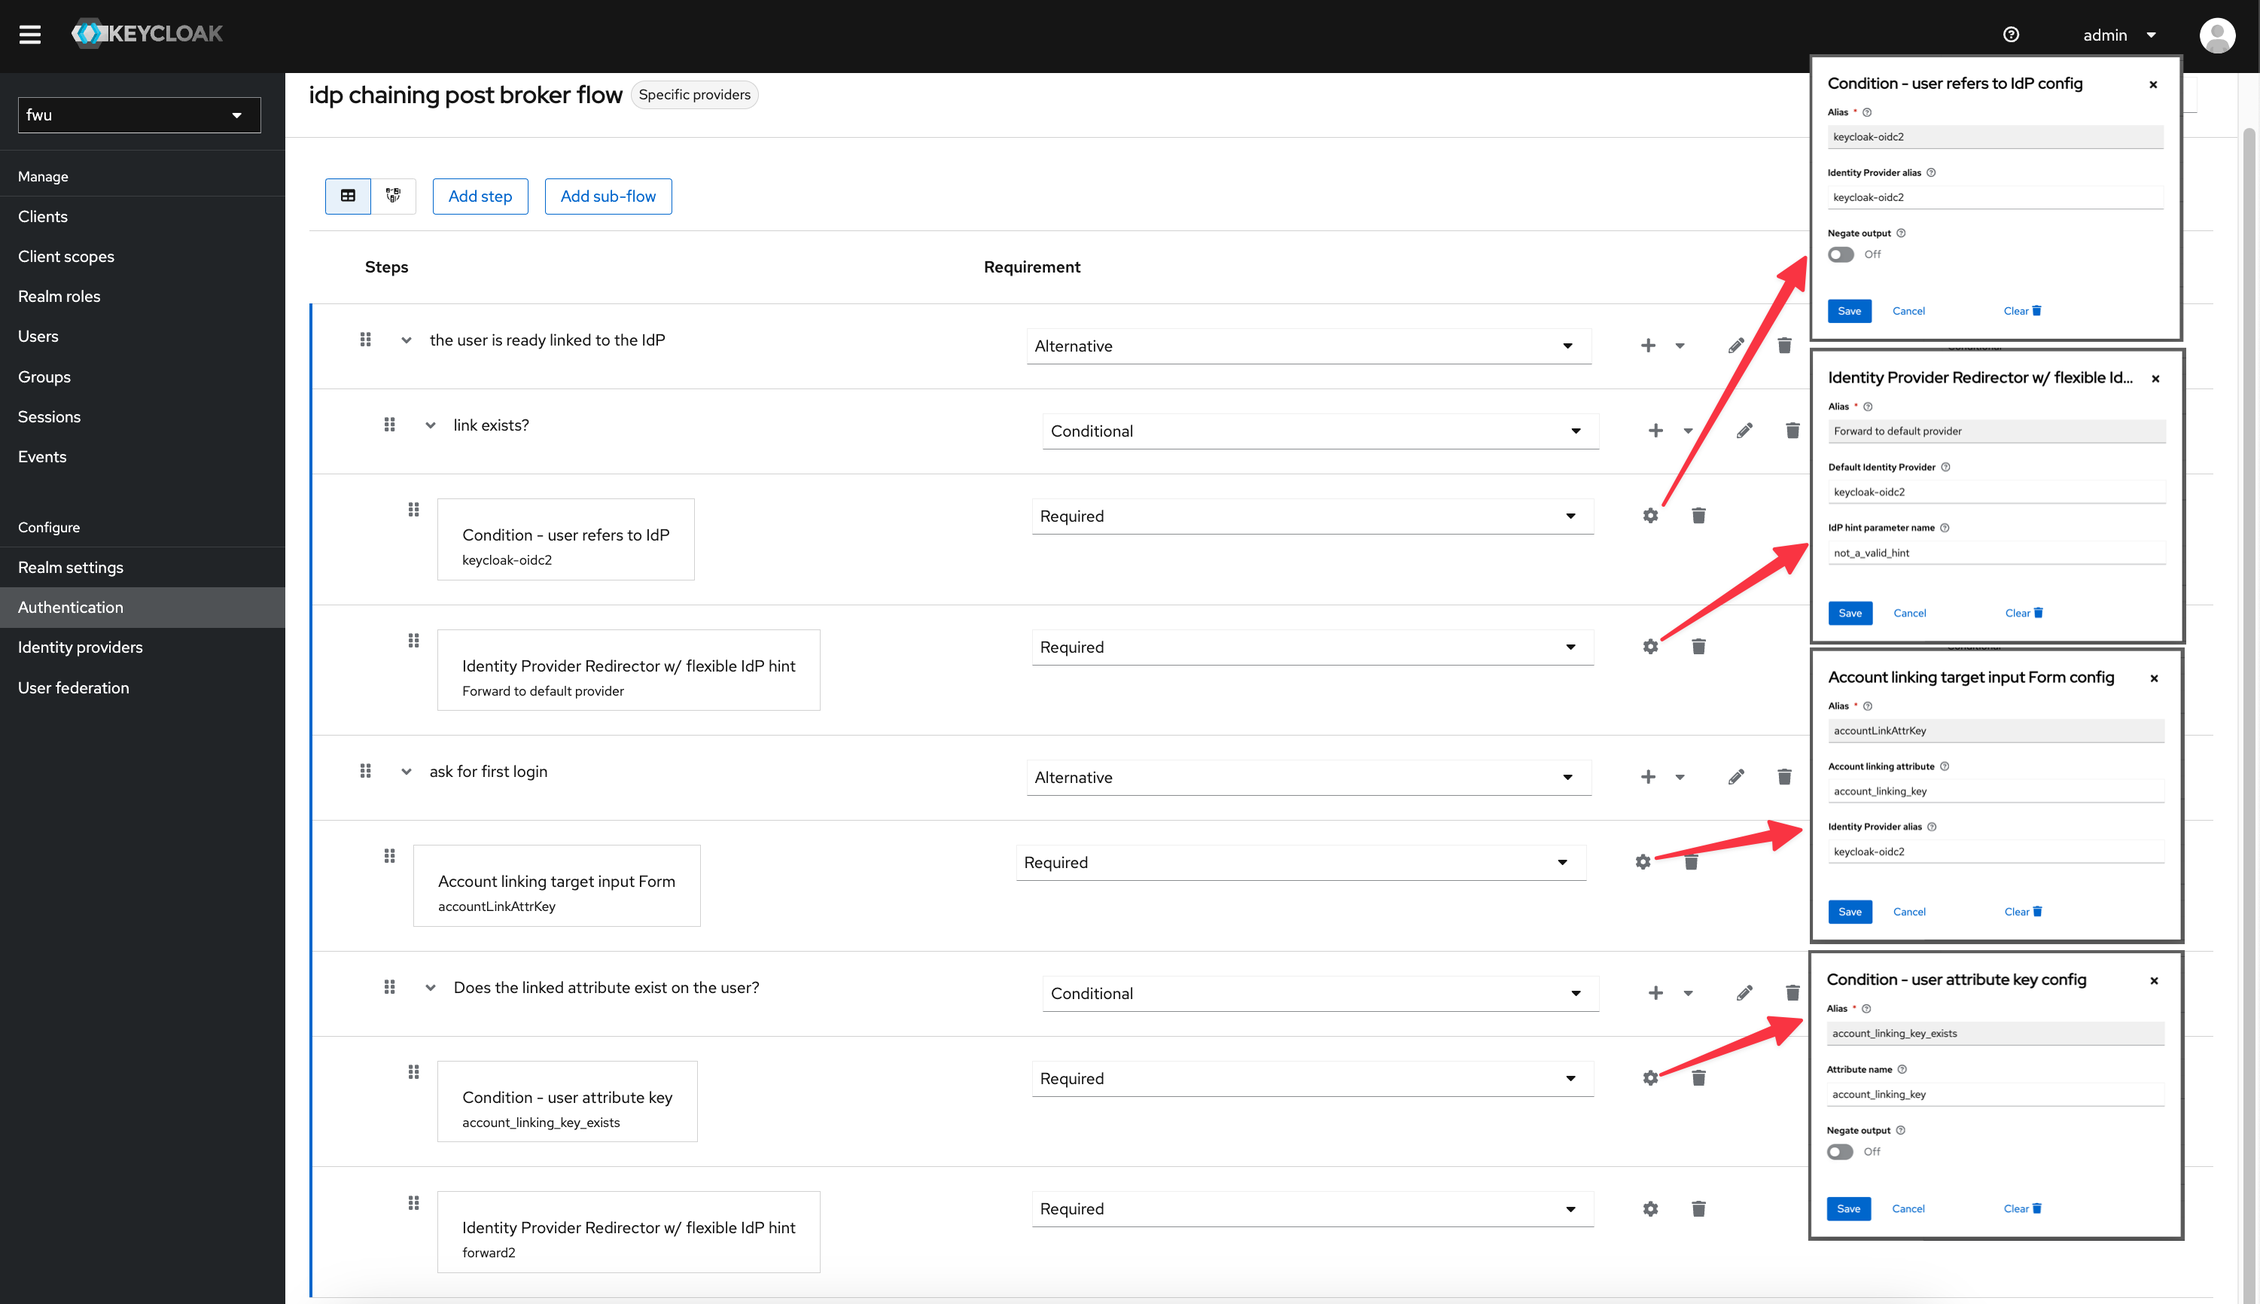
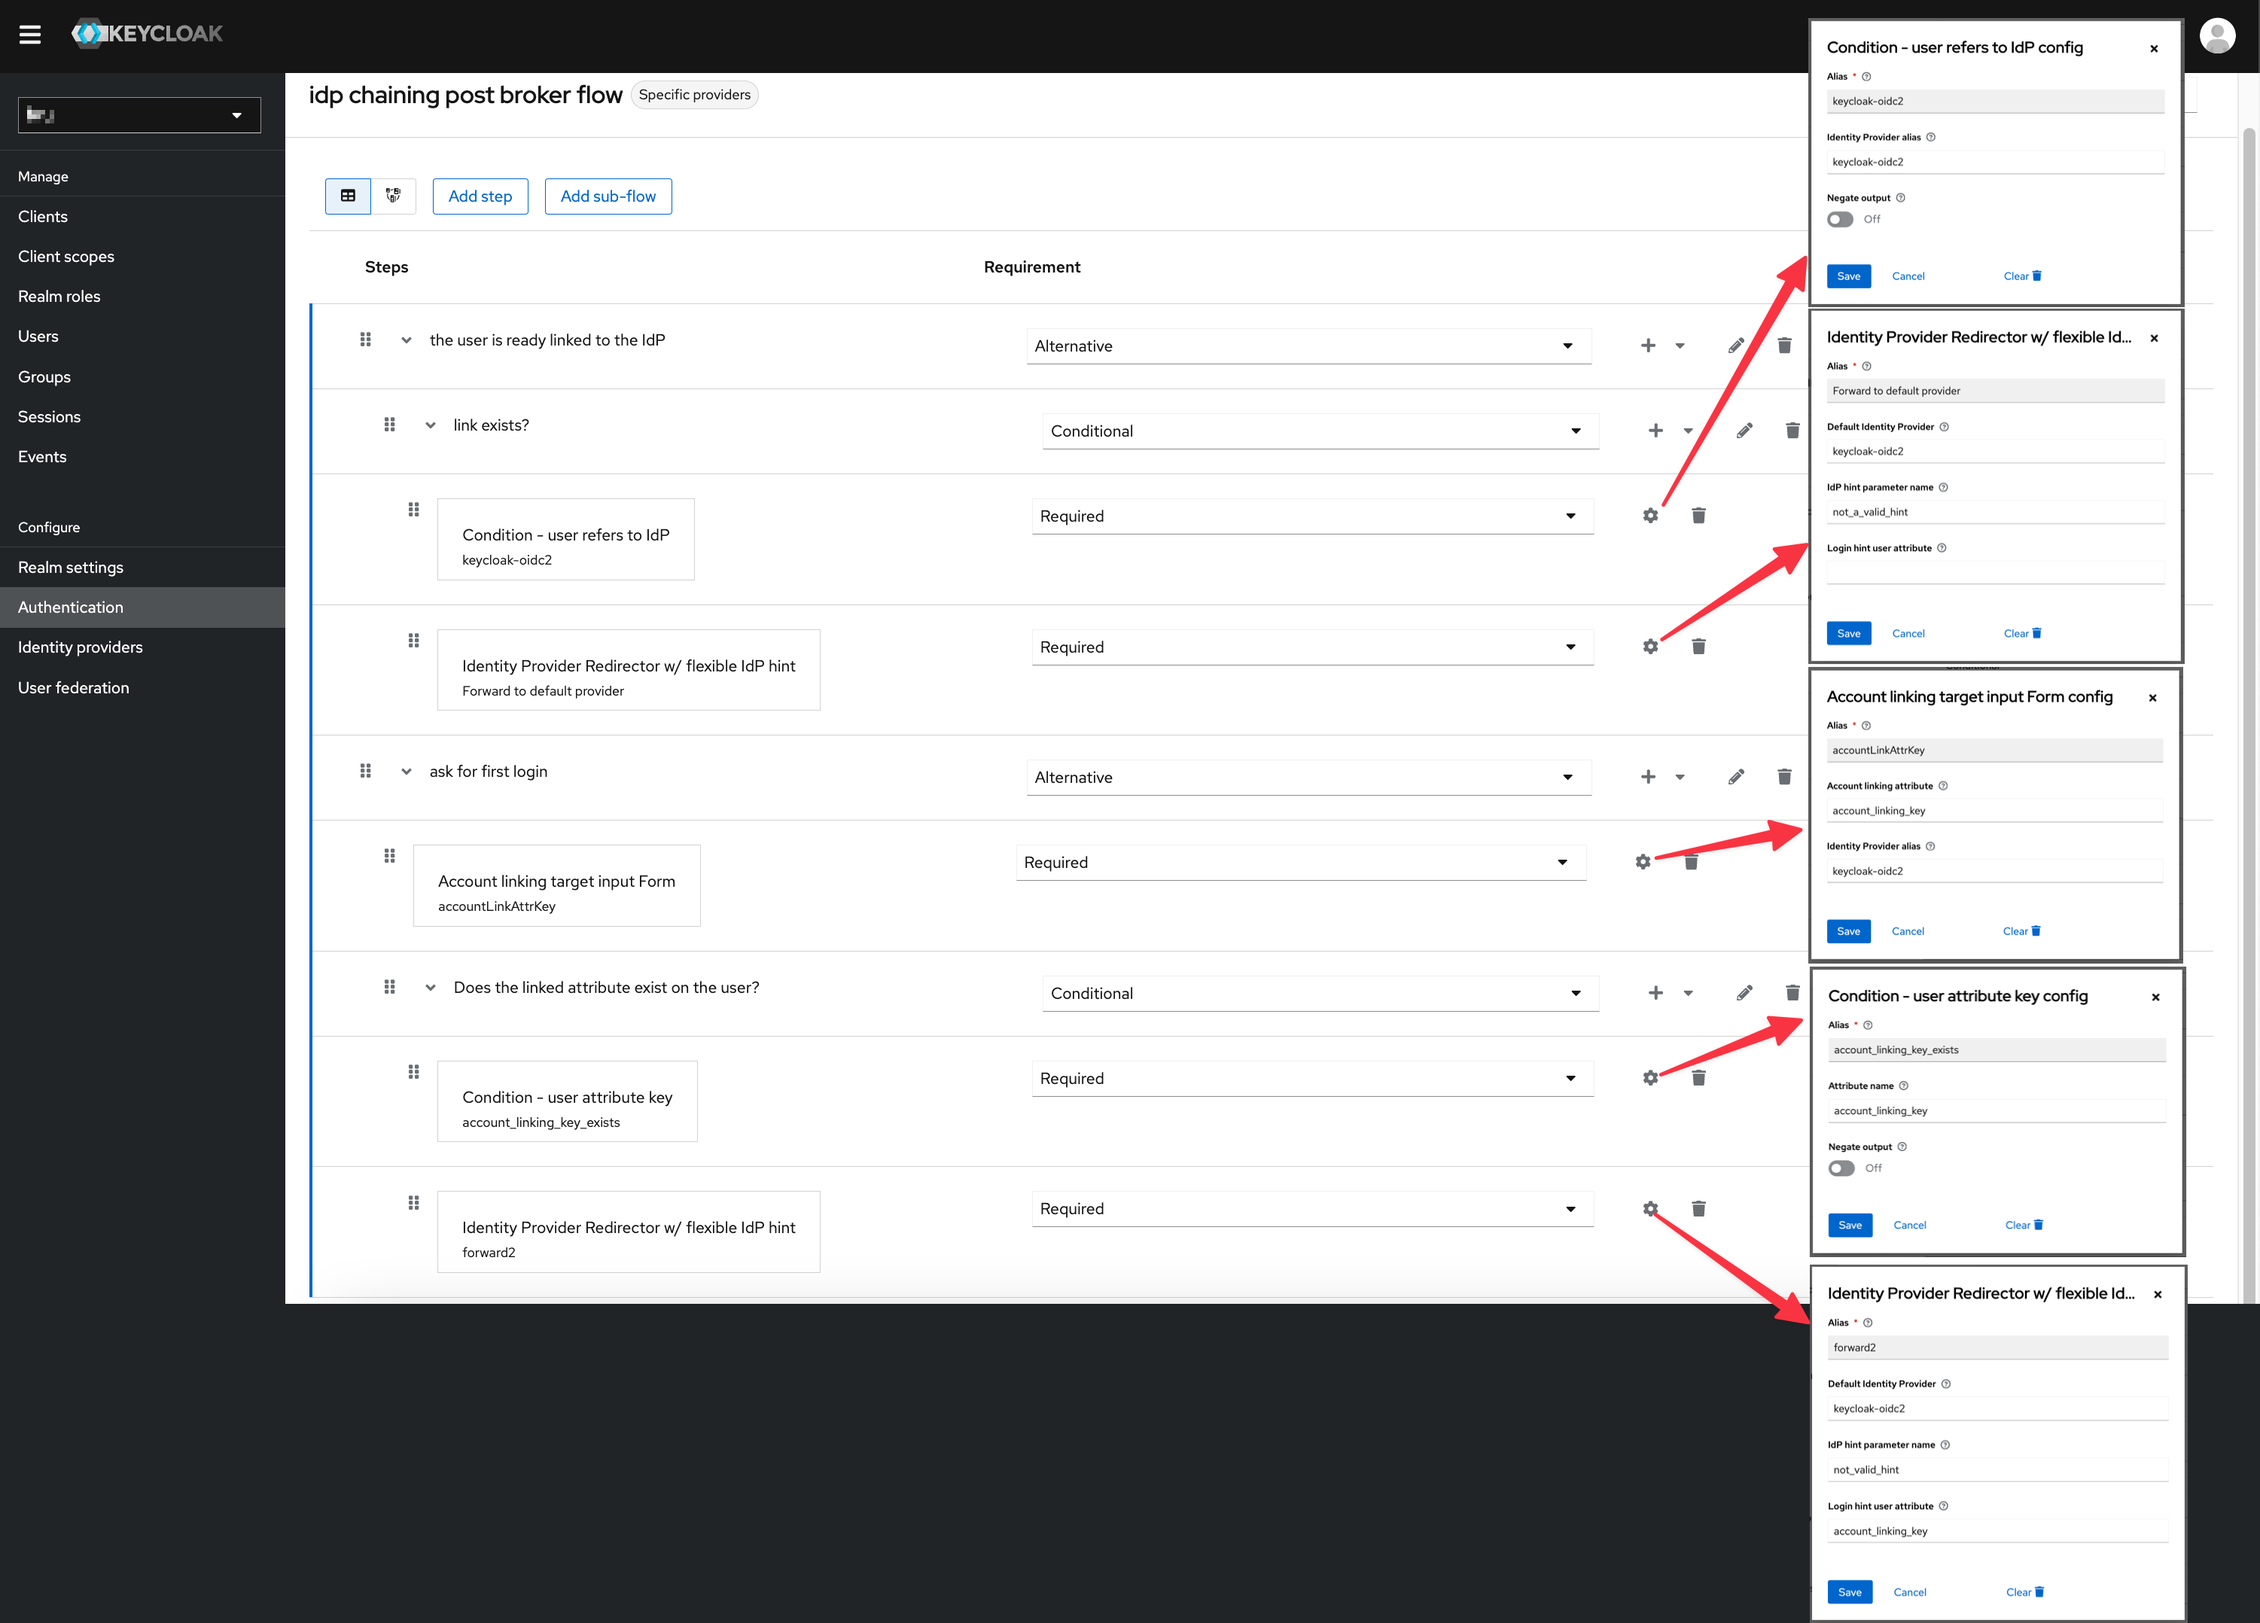
VIAM-243 - update on ConfigurableIdpHintParamIdentityProviderAuthenticator

diff --git a/whitelist-authenticator/src/main/java/de/intension/authentication/ConfigurableIdpHintParamIdentityProviderAuthenticator.java b/whitelist-authenticator/src/main/java/de/intension/authentication/ConfigurableIdpHintParamIdentityProviderAuthenticator.java
@@ -68,12 +68,10 @@ public class ConfigurableIdpHintParamIdentityProviderAuthenticator
                                                                    context.getAuthenticationSession().getClientNote(OAuth2Constants.DISPLAY))
                     .build();
             }
-            if (context.getUser() != null) {
-                String accountLinkingValue = context.getUser().getFirstAttribute("account_linking_key");
-                if (accountLinkingValue != null && !accountLinkingValue.isEmpty()) {
-                    location = UriBuilder.fromUri(location).queryParam("login_hint", accountLinkingValue)
-                        .build();
-                }
+            String loginHint = getLoginHintFromUserAttribute(context);
+            if(loginHint != null){
+                location = UriBuilder.fromUri(location).queryParam(OIDCLoginProtocol.LOGIN_HINT_PARAM, loginHint)
+                                     .build();
             }
             Response response = Response.seeOther(location)
                 .build();
@@ -90,5 +88,19 @@ public class ConfigurableIdpHintParamIdentityProviderAuthenticator
 
         LOG.warnf("Provider not found or not enabled for realm %s", providerId);
         context.attempted();
+    }
+
+    private String getLoginHintFromUserAttribute(AuthenticationFlowContext context){
+        String loginHint = null;
+        if (context.getUser() != null) {
+            String loginHintAttribute = context.getAuthenticatorConfig().getConfig().get(ConfigurableIdpHintParamIdentityProviderAuthenticatorFactory.CONF_LOGIN_HINT_ATTRIBUTE);
+            if(loginHintAttribute != null){
+                String accountLinkingValue = context.getUser().getFirstAttribute(loginHintAttribute);
+                if (accountLinkingValue != null) {
+                    loginHint = accountLinkingValue;
+                }
+            }
+        }
+        return loginHint;
     }
 }

diff --git a/whitelist-authenticator/src/main/java/de/intension/authentication/ConfigurableIdpHintParamIdentityProviderAuthenticatorFactory.java b/whitelist-authenticator/src/main/java/de/intension/authentication/ConfigurableIdpHintParamIdentityProviderAuthenticatorFactory.java
@@ -13,6 +13,7 @@ public class ConfigurableIdpHintParamIdentityProviderAuthenticatorFactory
 {
 
     public static final String PROVIDER_ID = "configurable-hint-idp-redirector";
+    public static final String CONF_LOGIN_HINT_ATTRIBUTE = "login_hint_attribute";
 
     @Override
     public String getId()
@@ -41,7 +42,10 @@ public class ConfigurableIdpHintParamIdentityProviderAuthenticatorFactory
                                ProviderConfigProperty.STRING_TYPE, null),
                        new ProviderConfigProperty(IdpHintParamName.IDP_HINT_PARAM_NAME, "IdP hint parameter name",
                                "Name of the URL query parameter which contains the allowed IdP.",
-                               ProviderConfigProperty.STRING_TYPE, AdapterConstants.KC_IDP_HINT));
+                               ProviderConfigProperty.STRING_TYPE, AdapterConstants.KC_IDP_HINT),
+                       new ProviderConfigProperty(CONF_LOGIN_HINT_ATTRIBUTE, "Login hint user attribute",
+                                                  "Name of the user attribute which contains the login_hint.",
+                                                  ProviderConfigProperty.STRING_TYPE, null));
     }
 
     @Override

diff --git a/whitelist-authenticator/README.md b/whitelist-authenticator/README.md
@@ -101,7 +101,7 @@ The following steps are valid for "Browser" and "First Broker Login" authenticat
 7. Enter the query parameter name that should be used for IdP redirection
 8. Hit 'Save'
 
-<img src="../docs/whitelist/08_3_configure_redirector.png" width="70%"/>
+<img src="../docs/whitelist/08_3_configure_redirector.png" width="30%"/>
 
 **Step 4: Set authentication flow as default**
 

diff --git a/CHANGELOG.md b/CHANGELOG.md
@@ -2,6 +2,10 @@
 
 All notable changes to this project will be documented here.
 
+## Version [4.2.0]
+
+- New Feature: Account linking of two users from different identity providers
+
 ## Version [4.1.0]
 
 - Improvement Login-Event-Listener now adds schoolids of the user to the events
